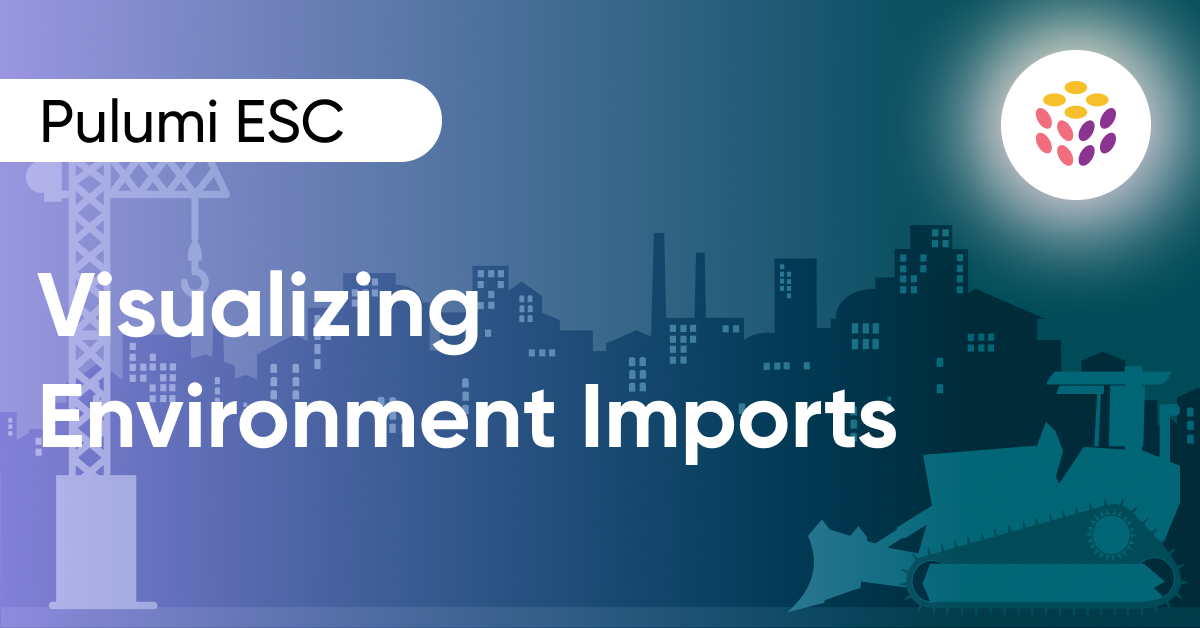
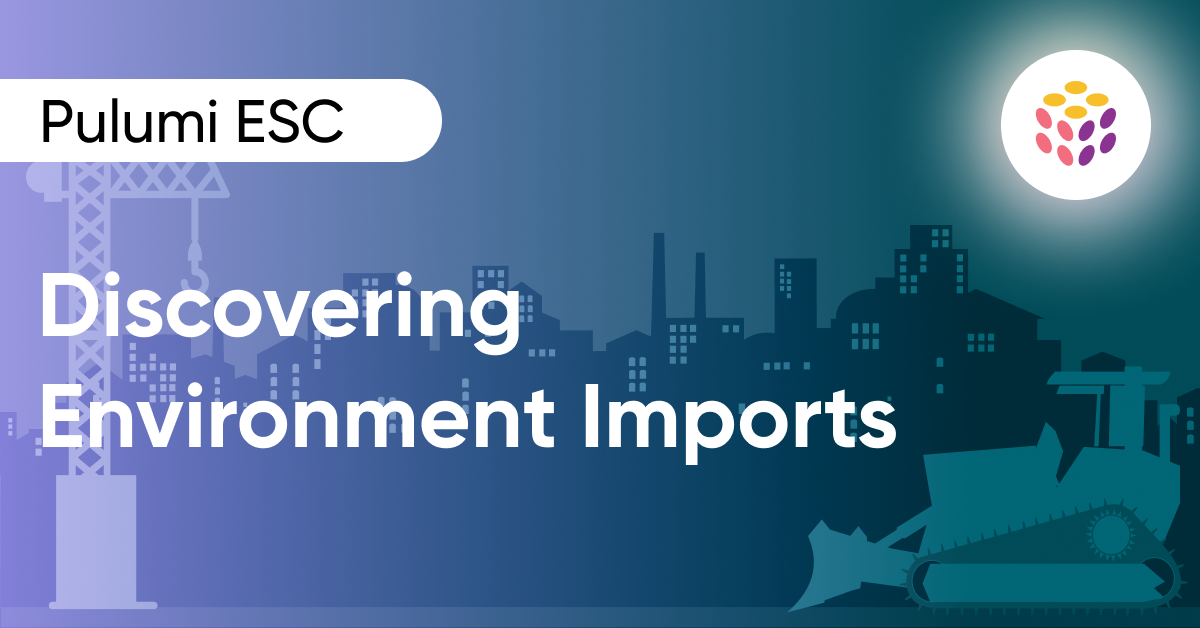
updating visualize->discover throughout

Changed region(s): [[0.0308, 0.4236, 0.4317, 0.5748]]

diff --git a/content/blog/esc-imports-visualization/index.md b/content/blog/esc-imports-visualization/index.md
@@ -1,9 +1,9 @@
 ---
-title: "Pulumi ESC: Visualizing Environment Imports"
+title: "Pulumi ESC: Discovering Environment Imports"
 date: 2024-12-13T00:00:00-07:00
 draft: false
 allow_long_title: true
-meta_desc: "Visualizing Pulumi ESC Environment imports empower you to manage and update your secrets and configuration with confidence."
+meta_desc: "The new Pulumi ESC Environment imports discoverability features empower you to manage and update your secrets and configuration with confidence."
 meta_image: "meta.png"
 authors:
 - sean-yeh
@@ -16,7 +16,7 @@ tags:
   - releases
 ---
 
-Managing secrets and configuration across multiple environments and stacks can easily become complex, leading to duplicated values, inconsistencies, and security risks. [Pulumi ESC](/product/esc) solves this with composable environments via [imports](/docs/esc/environments/imports/), allowing you to define configuration once and reuse it organization-wide.  Now, with the new visualization of environment imports, you gain unprecedented visibility and control, simplifying the management of even the most complex infrastructure and applications.
+Managing secrets and configuration across multiple environments and stacks can easily become complex, leading to duplicated values, inconsistencies, and security risks. [Pulumi ESC](/product/esc) solves this with composable environments via [imports](/docs/esc/environments/imports/), allowing you to define configuration once and reuse it organization-wide.  Now, with the new capabilities to discover environment imports, you gain unprecedented visibility and control, simplifying the management of even the most complex infrastructure and applications.
 
 <!--more-->
 
@@ -26,17 +26,17 @@ Pulumi ESC lets you define secrets and configuration as code collections called 
 
 By using [version tags](/docs/esc/environments/versioning/#tagging-versions), imports can target specific versions of an environment. This locks down the configuration used by dependents, ensuring stability and preventing unintended changes rolling out to your critical environments. 
 
-## What's New? Visualizing Imports
+## What's New?
 
-We've added powerful visualization features to give you clear insight into your environment dependencies:
+We've added powerful discoverability features to give you clear insight into your environment dependencies:
 
 - **New "Imported By" tab**: Easily understand downstream dependencies by clicking the "Imported By" tab for each environment. This tab shows all environments and stacks that import a specific environment, including the specific tagged version used. Filter and sort by imported versions and downstream resources to narrow in on the resources that will be affected by a change you are trying to make. 
 - **Warnings for deletions and tag movements**: Pulumi ESC now warns you about the potential impact of deleting an environment or modifying version tags before you make the change, helping you avoid disruptions.
 - **Enhanced environment page**: The Environments page now clearly indicates if an environment is used by other environments, stacks, or insights accounts, providing valuable relationship context at a glance.
-- **Pulumi IaC stack visibility**: Environment usage information is also available on the Stacks page and within individual stack overview pages.
+- **Pulumi IaC stack visibility**: Environment import information is also available on the Stacks page and within individual stack overview pages.
 
-![Imported by Visual](imported-by.png)
+![Screenshot of the Pulumi ESC 'Imported By' tab showing environment dependencies](imported-by.png)
 
 ## Conclusion 
 
-Pulumi ESC's import feature is a paradigm shift in how you manage your secrets and configuration. Visualizing imports gives you the confidence to manage complex deployments with ease. Explore the new features and share your feedback through our [Community Slack](/community/) or [GitHub Repo](https://github.com/pulumi/esc/issues/new/choose). 
+Pulumi ESC's import feature is a paradigm shift in how you manage your secrets and configuration. The new suite of import discoverability features gives you the confidence to manage complex deployments with ease. Explore the new features and share your feedback through our [Community Slack](/community/) or [GitHub Repo](https://github.com/pulumi/esc/issues/new/choose). 
